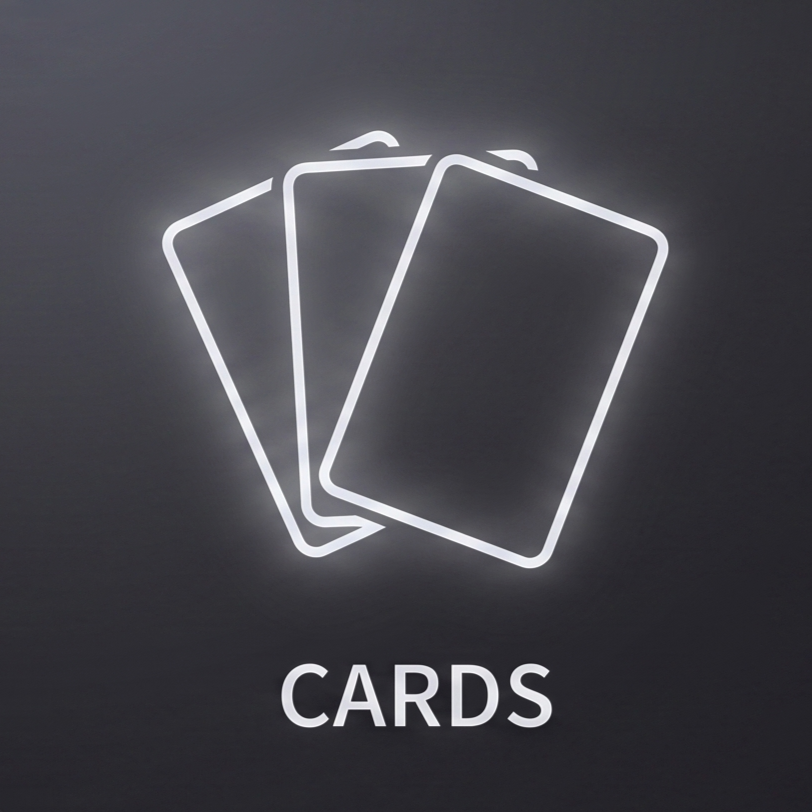
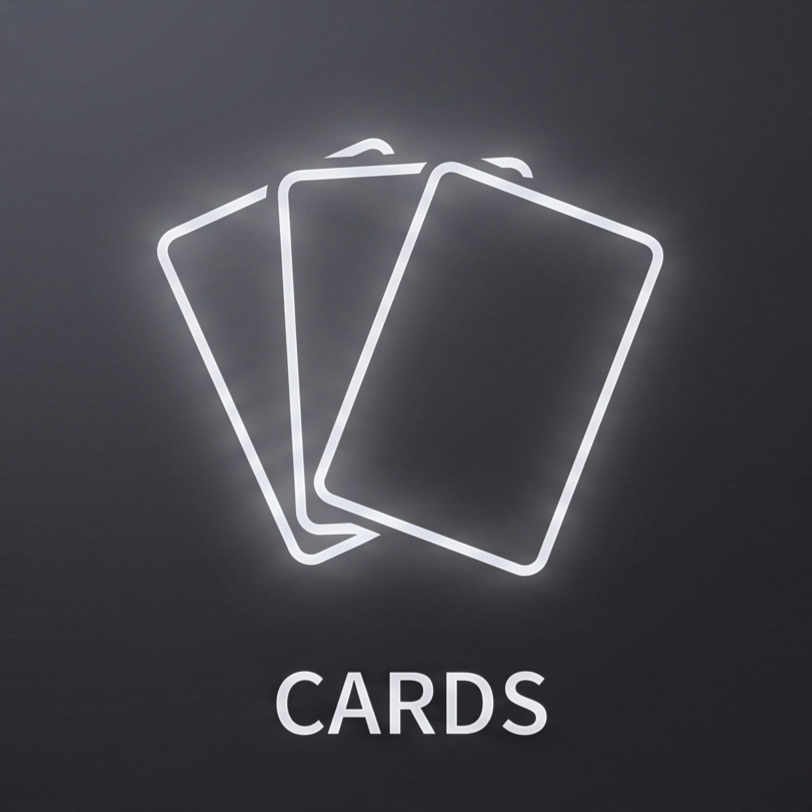
fix: revert invalid global replace of use_container_width to width that caused complete app crash

diff --git a/app.py b/app.py
@@ -261,7 +261,7 @@ with st.sidebar:
 
  process_btn = st.button(
   " Process Documents",
-  width="stretch",
+  use_container_width=True,
   disabled=not uploaded_files,
   type="primary",
  )
@@ -273,14 +273,14 @@ with st.sidebar:
 
   gen_col1, gen_col2, gen_col3 = st.columns(3)
   with gen_col1:
-   st.image("images/notes.png", width="stretch")
-   notes_btn = st.button("Notes", width="stretch", help="Generate Notes", key="btn_notes")
+   st.image("images/notes.png", use_container_width=True)
+   notes_btn = st.button("Notes", use_container_width=True, help="Generate Notes", key="btn_notes")
   with gen_col2:
-   st.image("images/quiz.png", width="stretch")
-   quiz_btn = st.button("Quiz", width="stretch", help="Generate MCQ Quiz", key="btn_quiz")
+   st.image("images/quiz.png", use_container_width=True)
+   quiz_btn = st.button("Quiz", use_container_width=True, help="Generate MCQ Quiz", key="btn_quiz")
   with gen_col3:
-   st.image("images/cards.png", width="stretch")
-   flash_btn = st.button("Cards", width="stretch", help="Generate Flashcards", key="btn_cards")
+   st.image("images/cards.png", use_container_width=True)
+   flash_btn = st.button("Cards", use_container_width=True, help="Generate Flashcards", key="btn_cards")
 
  else:
   notes_btn = False
@@ -338,7 +338,7 @@ with st.sidebar:
     data=st.session_state.generated_notes_pdf,
     file_name="study_notes.pdf",
     mime="application/pdf",
-    width="stretch",
+    use_container_width=True,
    )
   if st.session_state.generated_quiz_pdf:
    st.download_button(
@@ -346,7 +346,7 @@ with st.sidebar:
     data=st.session_state.generated_quiz_pdf,
     file_name="mcq_quiz.pdf",
     mime="application/pdf",
-    width="stretch",
+    use_container_width=True,
    )
   if st.session_state.generated_flashcards_pdf:
    st.download_button(
@@ -354,18 +354,18 @@ with st.sidebar:
     data=st.session_state.generated_flashcards_pdf,
     file_name="flashcards.pdf",
     mime="application/pdf",
-    width="stretch",
+    use_container_width=True,
    )
 
  st.markdown("---")
  reset_col1, reset_col2 = st.columns(2)
  with reset_col1:
-  if st.button(" Clear Chat", width="stretch"):
+  if st.button(" Clear Chat", use_container_width=True):
    st.session_state.messages = []
    st.session_state.active_tab = "chat"
    st.rerun()
  with reset_col2:
-  if st.button(" Reset All", width="stretch"):
+  if st.button(" Reset All", use_container_width=True):
    for key in list(st.session_state.keys()):
     del st.session_state[key]
    st.rerun()
@@ -586,7 +586,7 @@ else:
     data=st.session_state.generated_notes_pdf,
     file_name="study_notes.pdf",
     mime="application/pdf",
-    width="stretch",
+    use_container_width=True,
     type="primary",
    )
   else:
@@ -599,7 +599,7 @@ else:
      <p style="color: #9ca3af; margin-bottom: 1.5rem;">Generate AI study notes from your documents.</p>
     """, unsafe_allow_html=True)
     
-    if st.button(" Generate Study Notes", width="stretch", type="primary", key="main_notes_btn"):
+    if st.button(" Generate Study Notes", use_container_width=True, type="primary", key="main_notes_btn"):
      _run_generation(
       "notes",
       generate_notes_content,
@@ -639,7 +639,7 @@ else:
     data=st.session_state.generated_quiz_pdf,
     file_name="mcq_quiz.pdf",
     mime="application/pdf",
-    width="stretch",
+    use_container_width=True,
     type="primary",
    )
   else:
@@ -652,7 +652,7 @@ else:
      <p style="color: #9ca3af; margin-bottom: 1.5rem;">Generate an interactive MCQ practice quiz from your documents.</p>
     """, unsafe_allow_html=True)
     
-    if st.button(" Generate Practice Quiz", width="stretch", type="primary", key="main_quiz_btn"):
+    if st.button(" Generate Practice Quiz", use_container_width=True, type="primary", key="main_quiz_btn"):
      _run_generation(
       "quiz",
       generate_quiz_content,
@@ -692,7 +692,7 @@ else:
     data=st.session_state.generated_flashcards_pdf,
     file_name="flashcards.pdf",
     mime="application/pdf",
-    width="stretch",
+    use_container_width=True,
     type="primary",
    )
   else:
@@ -705,7 +705,7 @@ else:
      <p style="color: #9ca3af; margin-bottom: 1.5rem;">Generate interactive study flashcards from your documents.</p>
     """, unsafe_allow_html=True)
     
-    if st.button(" Generate Flashcards", width="stretch", type="primary", key="main_flash_btn"):
+    if st.button(" Generate Flashcards", use_container_width=True, type="primary", key="main_flash_btn"):
      _run_generation(
       "flashcards",
       generate_flashcards_content,

diff --git a/ingestion/splitter.py b/ingestion/splitter.py
@@ -3,8 +3,8 @@ from langchain_text_splitters import RecursiveCharacterTextSplitter
 
 def split_documents(docs):
     splitter = RecursiveCharacterTextSplitter(
-        chunk_size=750,
-        chunk_overlap=100,
+        chunk_size=1000,
+        chunk_overlap=200,
     )
 
     chunks = splitter.split_documents(docs)
